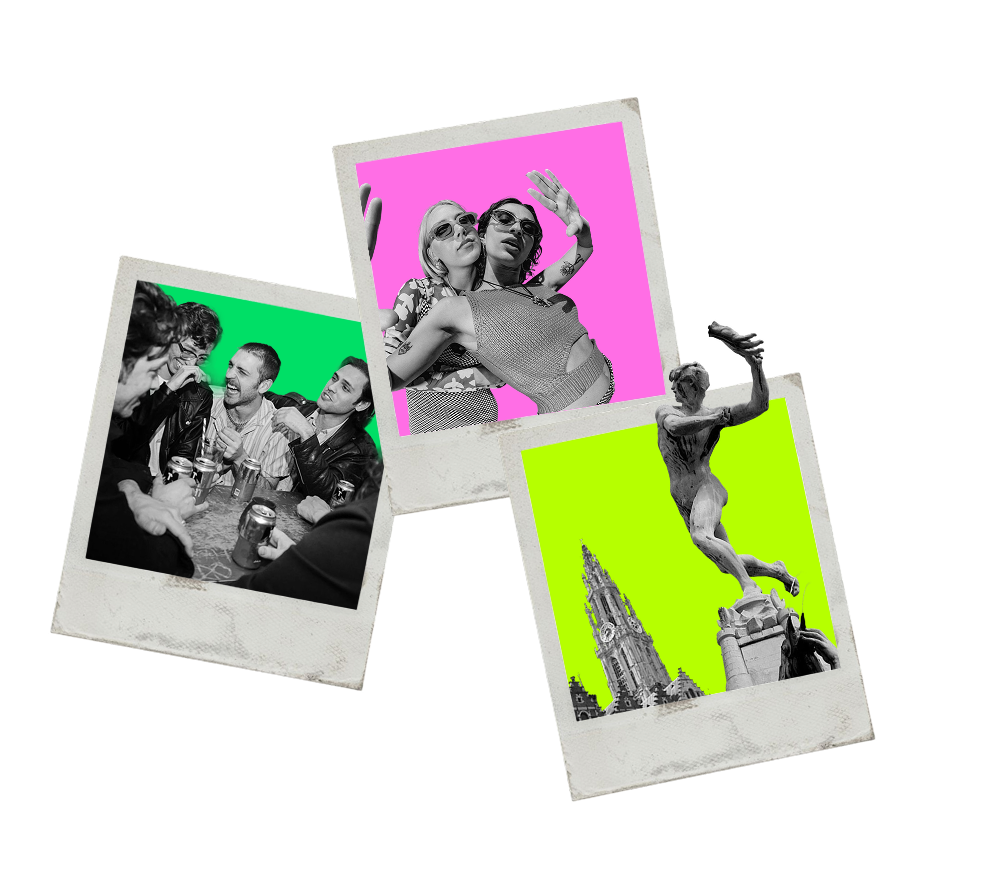
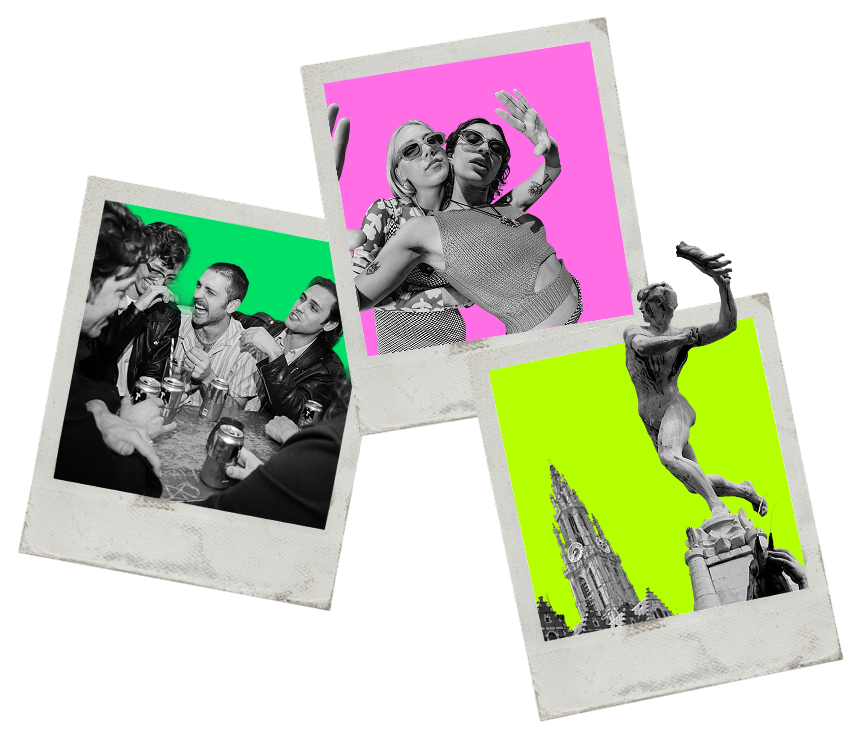
fix popups content not fully showing with smaller screen height

diff --git a/router-app/app/routes/storytelling.css b/router-app/app/routes/storytelling.css
@@ -639,15 +639,25 @@
     position: relative;
     background: var(--beige);
     overflow: hidden;
-    padding: 52px 48px;
-    display: grid;
-    grid-template-columns: 1fr 1fr;
-    gap: 36px;
+
+    display: flex;
+    flex-direction: column;
+    justify-content: space-between;
+    row-gap: 36px;
     align-items: center;
+
     animation: modal-in 0.3s cubic-bezier(0.34, 1.56, 0.64, 1);
 
     height: 85%;
     width: 85%;
+
+    grid-template-columns: 1fr;
+    padding: 30px 24px;
+
+    background-image: url("../assets/scrollytelling/pop-ups/green-square.svg"), url("../assets/scrollytelling/pop-ups/green-square.svg");
+    background-position: right -200% top -70%,
+        left -100% bottom -70%;
+    background-repeat: no-repeat;
 }
 
 @keyframes modal-in {
@@ -689,36 +699,40 @@
 /* Media column */
 .modal__media {
     position: relative;
+    flex: 1 1 auto;
+    min-height: 0;
 }
 
 .modal__img {
-    width: 100%;
+    width: auto;
+    max-width: 100%;
     height: auto;
+    max-height: 100%;
     display: block;
+
+    position: relative;
+    left: 50%;
+    transform: translateX(-50%);
 }
 
 .modal__img--coaster {
-    margin-top: -4.5rem;
-    margin-left: -3.5rem;
-
-    width: 135%;
+    transform: translate(-50%, -10%);
+    max-width: 100%;
 }
 
 .modal__img--polaroids {
-    width: 165%;
-    margin-left: -4.5rem;
-    margin-bottom: -3rem;
+    max-width: 140%;
 }
 
 .modal__img--map {
-    width: 90%;
+    max-width: 90%;
 }
 
 .modal__phones {
     position: absolute;
     width: 230%;
-    top: -6.7rem;
-    left: -25rem;
+    top: -40%;
+    left: -144%;
 
     display: grid;
     grid-template-columns: 1fr;
@@ -807,18 +821,6 @@
     text-align: center;
 
     margin-bottom: 3rem;
-}
-
-@media (max-width: 580px) {
-    .modal {
-        grid-template-columns: 1fr;
-        padding: 30px 24px;
-
-        background-image: url("../assets/scrollytelling/pop-ups/green-square.svg"), url("../assets/scrollytelling/pop-ups/green-square.svg");
-        background-position: right -200% top -70%,
-            left -100% bottom -70%;
-        background-repeat: no-repeat;
-    }
 }
 
 /* ── Exit transition overlay ────────────────────────────────────────────── */
